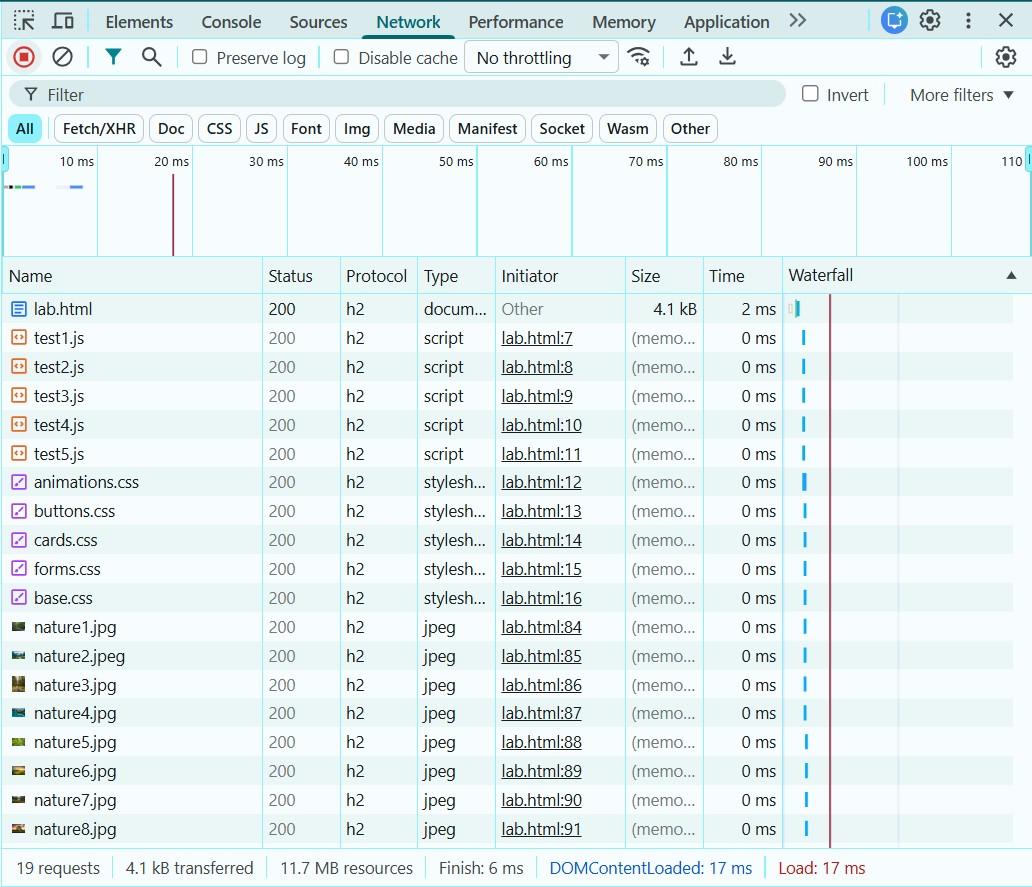
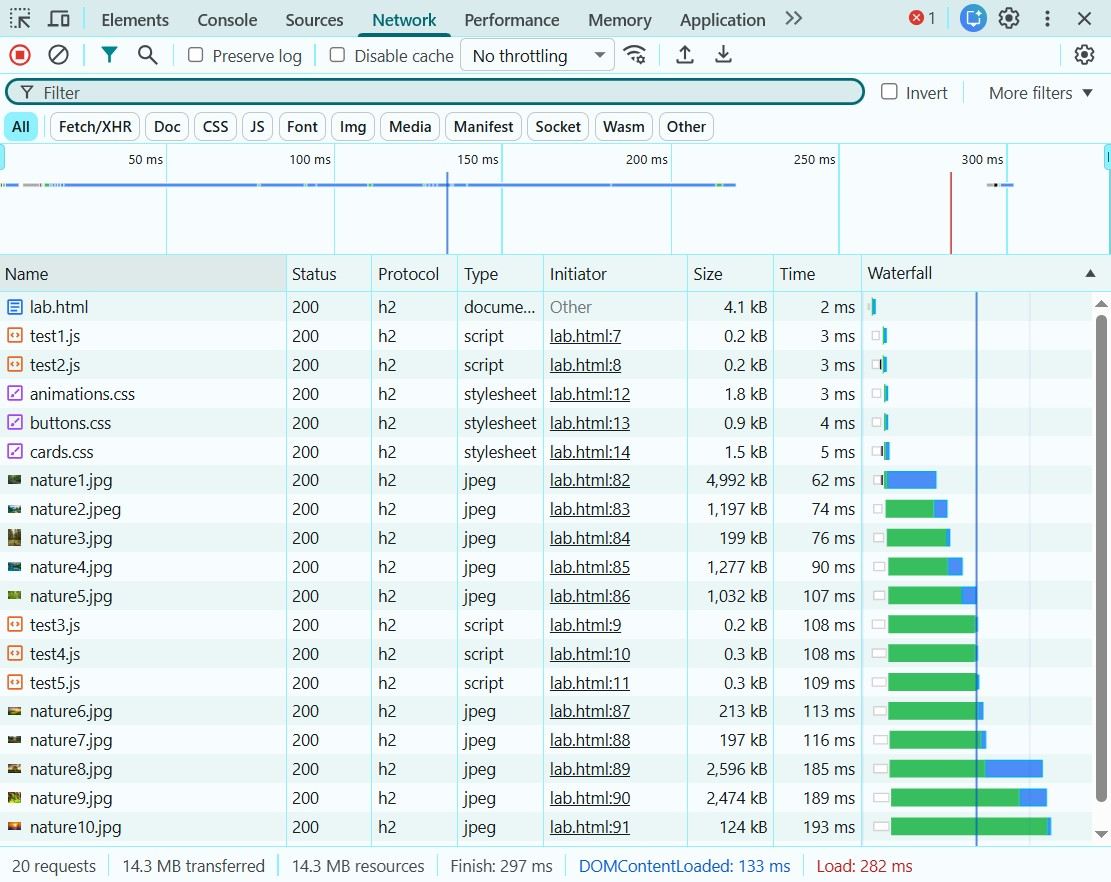
added 2 more pictures

Changed region(s): [[0.0, 0.0, 1.0, 1.0], [0.8682, 0.1531, 0.9302, 0.2755], [0.9612, 0.1531, 1.0, 0.2143]]

diff --git a/html/lab4/css/cards.css b/html/lab4/css/cards.css
@@ -40,38 +40,29 @@
     font-weight: bold;
 }
 
-.card-muted {
-    background: #f8fafc;
-    border-color: #e5e7eb;
+input, textarea, select {
+    width: 100%;
+    padding: 10px;
+    border: 1px solid #ddd;
+    border-radius: 4px;
+    font-size: 14px;
 }
 
-.card-accent {
-    border-left: 6px solid #38b2ac;
+input:focus, textarea:focus, select:focus {
+    outline: none;
+    border-color: #667eea;
+    box-shadow: 0 0 0 3px rgba(102, 126, 234, 0.1);
+}
+.grid {
+    display: grid;
+    grid-template-columns: repeat(auto-fit, minmax(250px, 1fr));
+    gap: 20px;
+    margin: 20px 0;
 }
 
-.badge {
-    display: inline-block;
-    padding: 4px 10px;
-    border-radius: 12px;
-    font-size: 12px;
-    background: #eef2ff;
-    color: #4c51bf;
-}
-
-.list-tight {
-    list-style: none;
-    padding-left: 0;
-}
-
-.list-tight li {
-    padding: 6px 0;
-    border-bottom: 1px solid #eee;
-}
-
-.form-card, .table-card {
-    background: white;
-    border: 1px solid #e5e7eb;
-    border-radius: 10px;
-    padding: 20px;
-    box-shadow: 0 6px 14px rgba(0,0,0,0.08);
+.protocol-info {
+    display: grid;
+    grid-template-columns: repeat(auto-fit, minmax(300px, 1fr));
+    gap: 20px;
+    margin-top: 20px;
 }

diff --git a/html/lab4/css/animations.css b/html/lab4/css/animations.css
@@ -55,3 +55,54 @@ tr:hover {
     color: #667eea;
     font-weight: bold;
 }
+
+* {
+    margin: 0;
+    padding: 0;
+    box-sizing: border-box;
+}
+
+body {
+    font-family: -apple-system, BlinkMacSystemFont, 'Segoe UI', Roboto, Oxygen, Ubuntu, Cantarell, sans-serif;
+    line-height: 1.6;
+}
+
+/* Layout styles */
+.container {
+    max-width: 1200px;
+    margin: 0 auto;
+    padding: 20px;
+}
+
+.header {
+    text-align: center;
+    margin-bottom: 30px;
+}
+
+.footer {
+    text-align: center;
+    margin-top: 40px;
+    padding-top: 20px;
+    border-top: 1px solid #ddd;
+}
+
+h1 {
+    font-size: 2.5rem;
+    font-weight: 700;
+    margin-bottom: 10px;
+}
+
+h2 {
+    font-size: 1.8rem;
+    margin-bottom: 15px;
+    color: #444;
+}
+
+h3 {
+    font-size: 1.3rem;
+    margin-bottom: 10px;
+}
+
+p {
+    margin-bottom: 10px;
+}

diff --git a/html/lab4/lab.html b/html/lab4/lab.html
@@ -12,8 +12,6 @@
     <link rel="stylesheet" href="css/animations.css">
     <link rel="stylesheet" href="css/buttons.css">
     <link rel="stylesheet" href="css/cards.css">
-    <link rel="stylesheet" href="css/forms.css">
-    <link rel="stylesheet" href="css/base.css">
 </head>
 <body>
     <div class="container">
@@ -89,6 +87,8 @@
         <img src="nature/nature6.jpg" alt="spacer">
         <img src="nature/nature7.jpg" alt="spacer">
         <img src="nature/nature8.jpg" alt="spacer">
+        <img src="nature/nature9.jpg" alt="spacer">
+        <img src="nature/nature10.jpg" alt="spacer">
         <footer class="footer">
             <p>Difference between HTTP/1.1 and HTTP/2 demonstrated</p>
         </footer>
